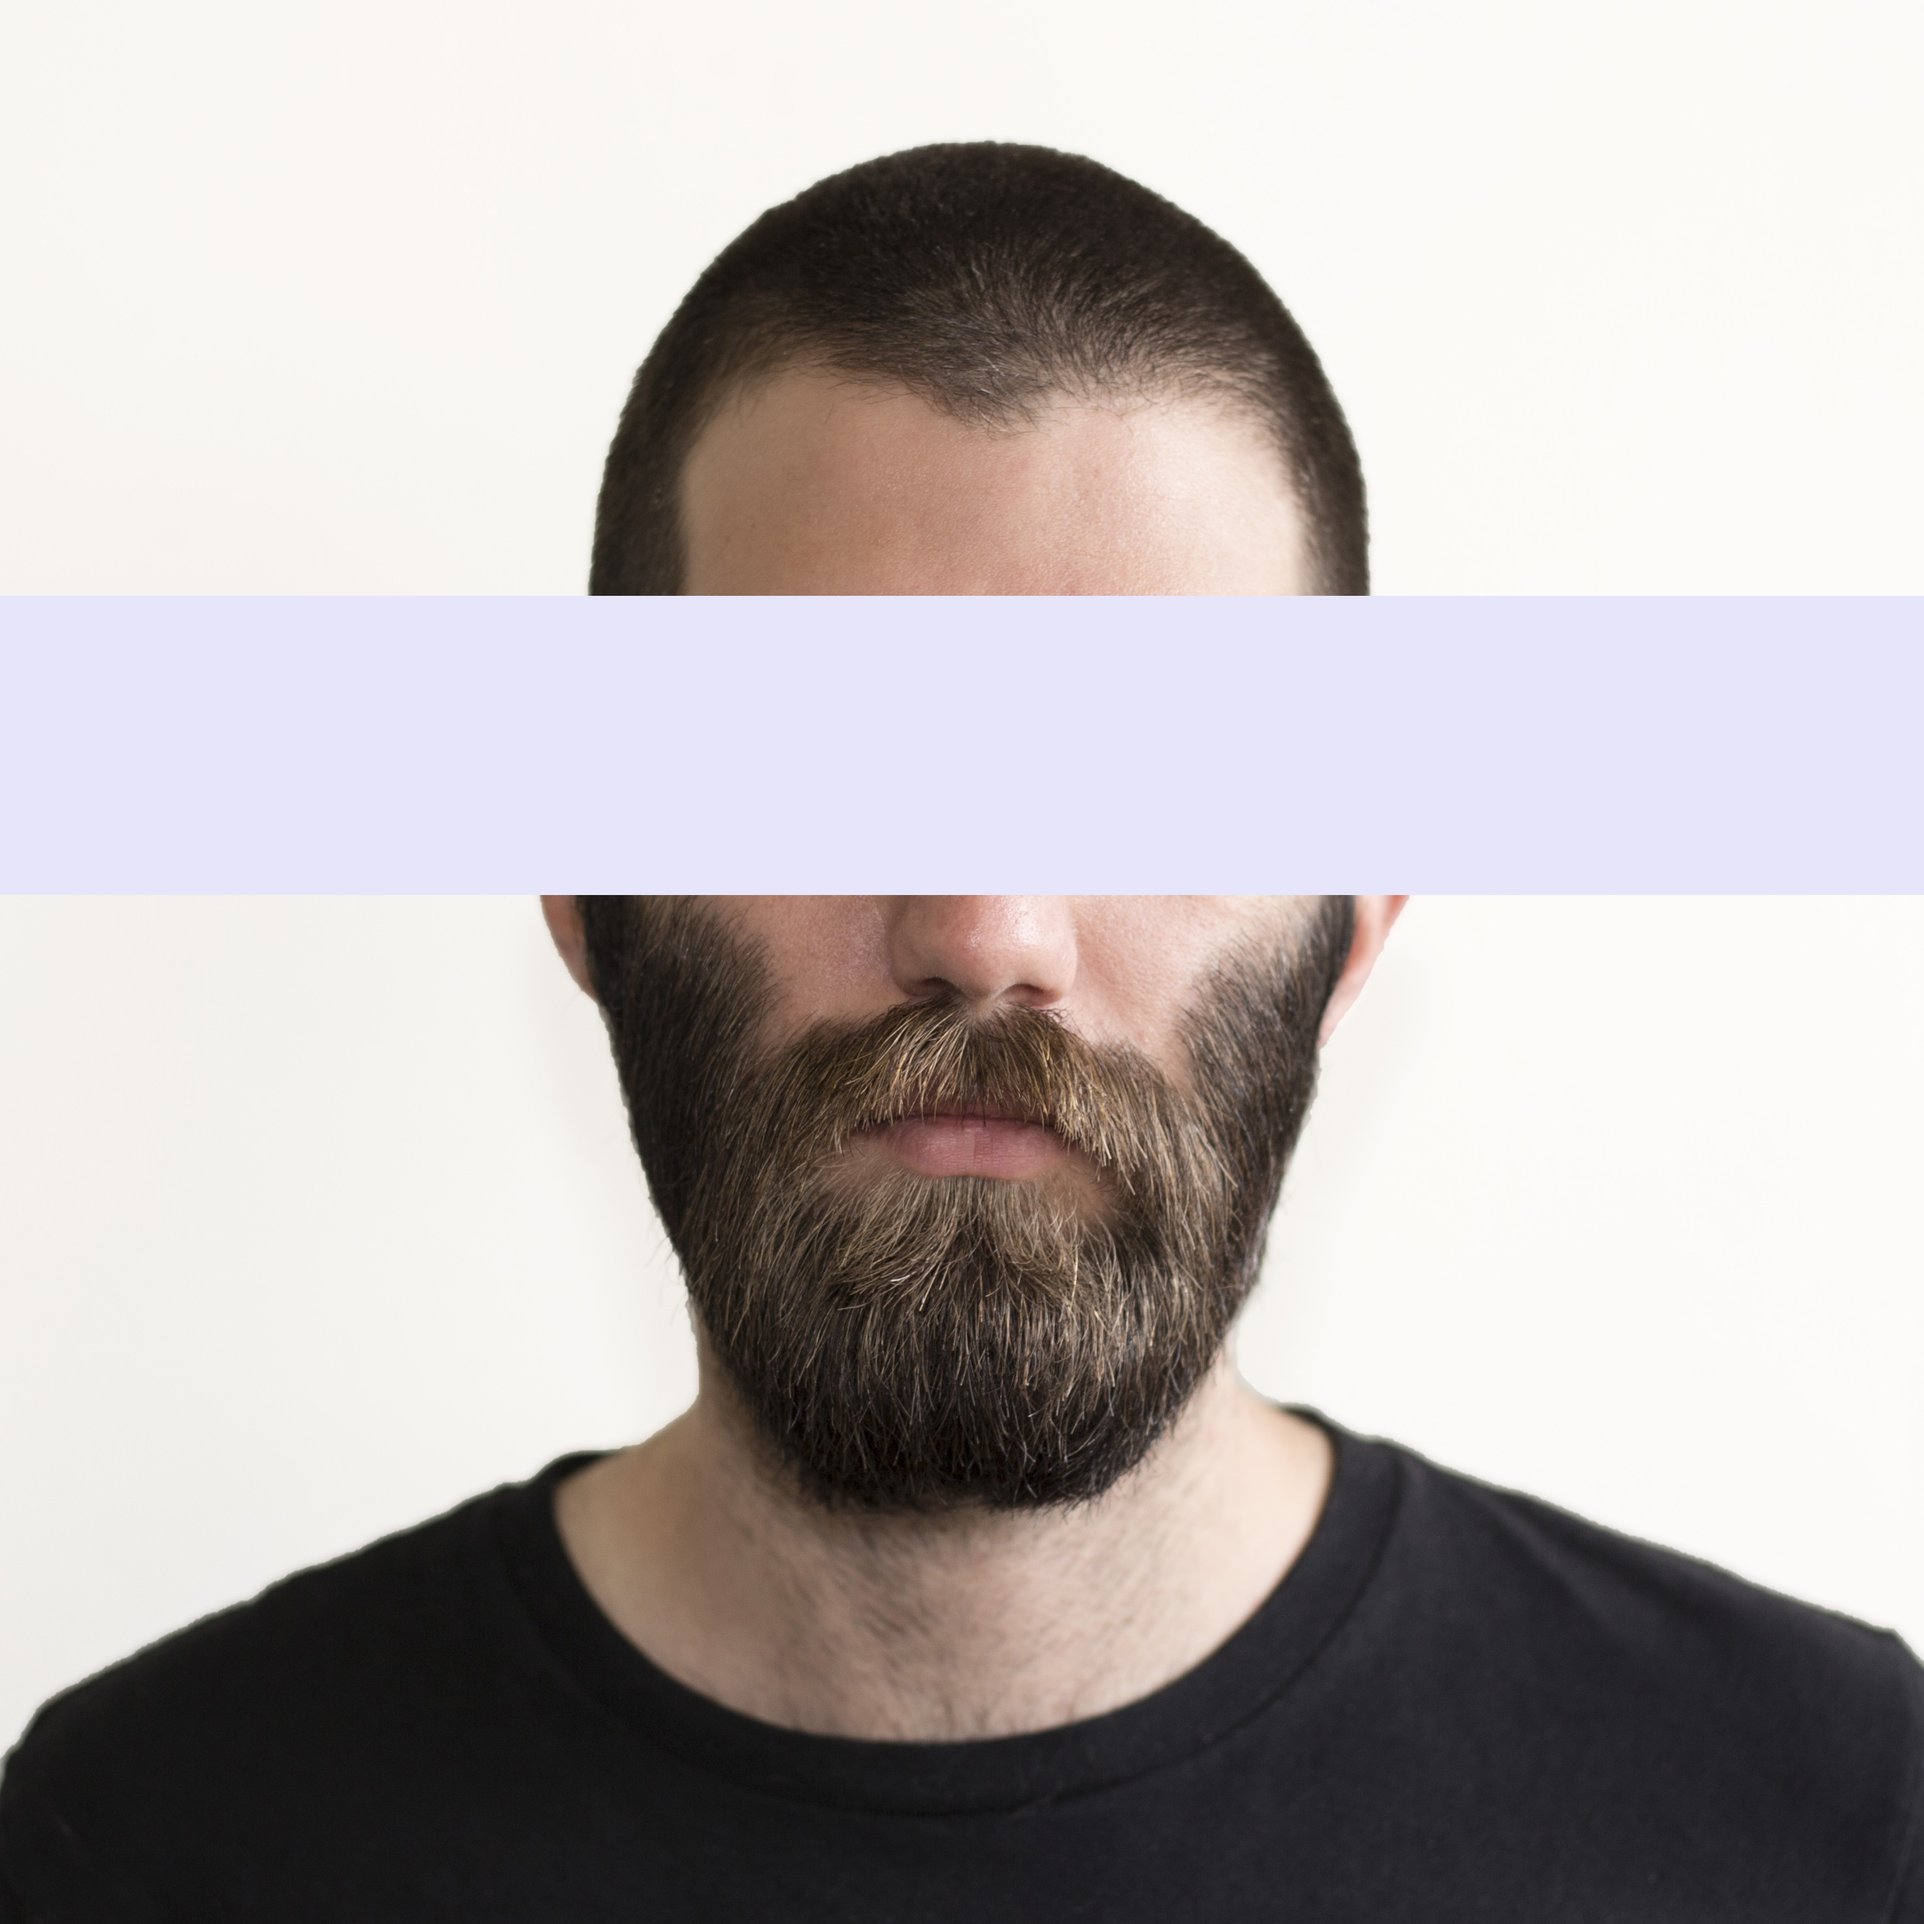
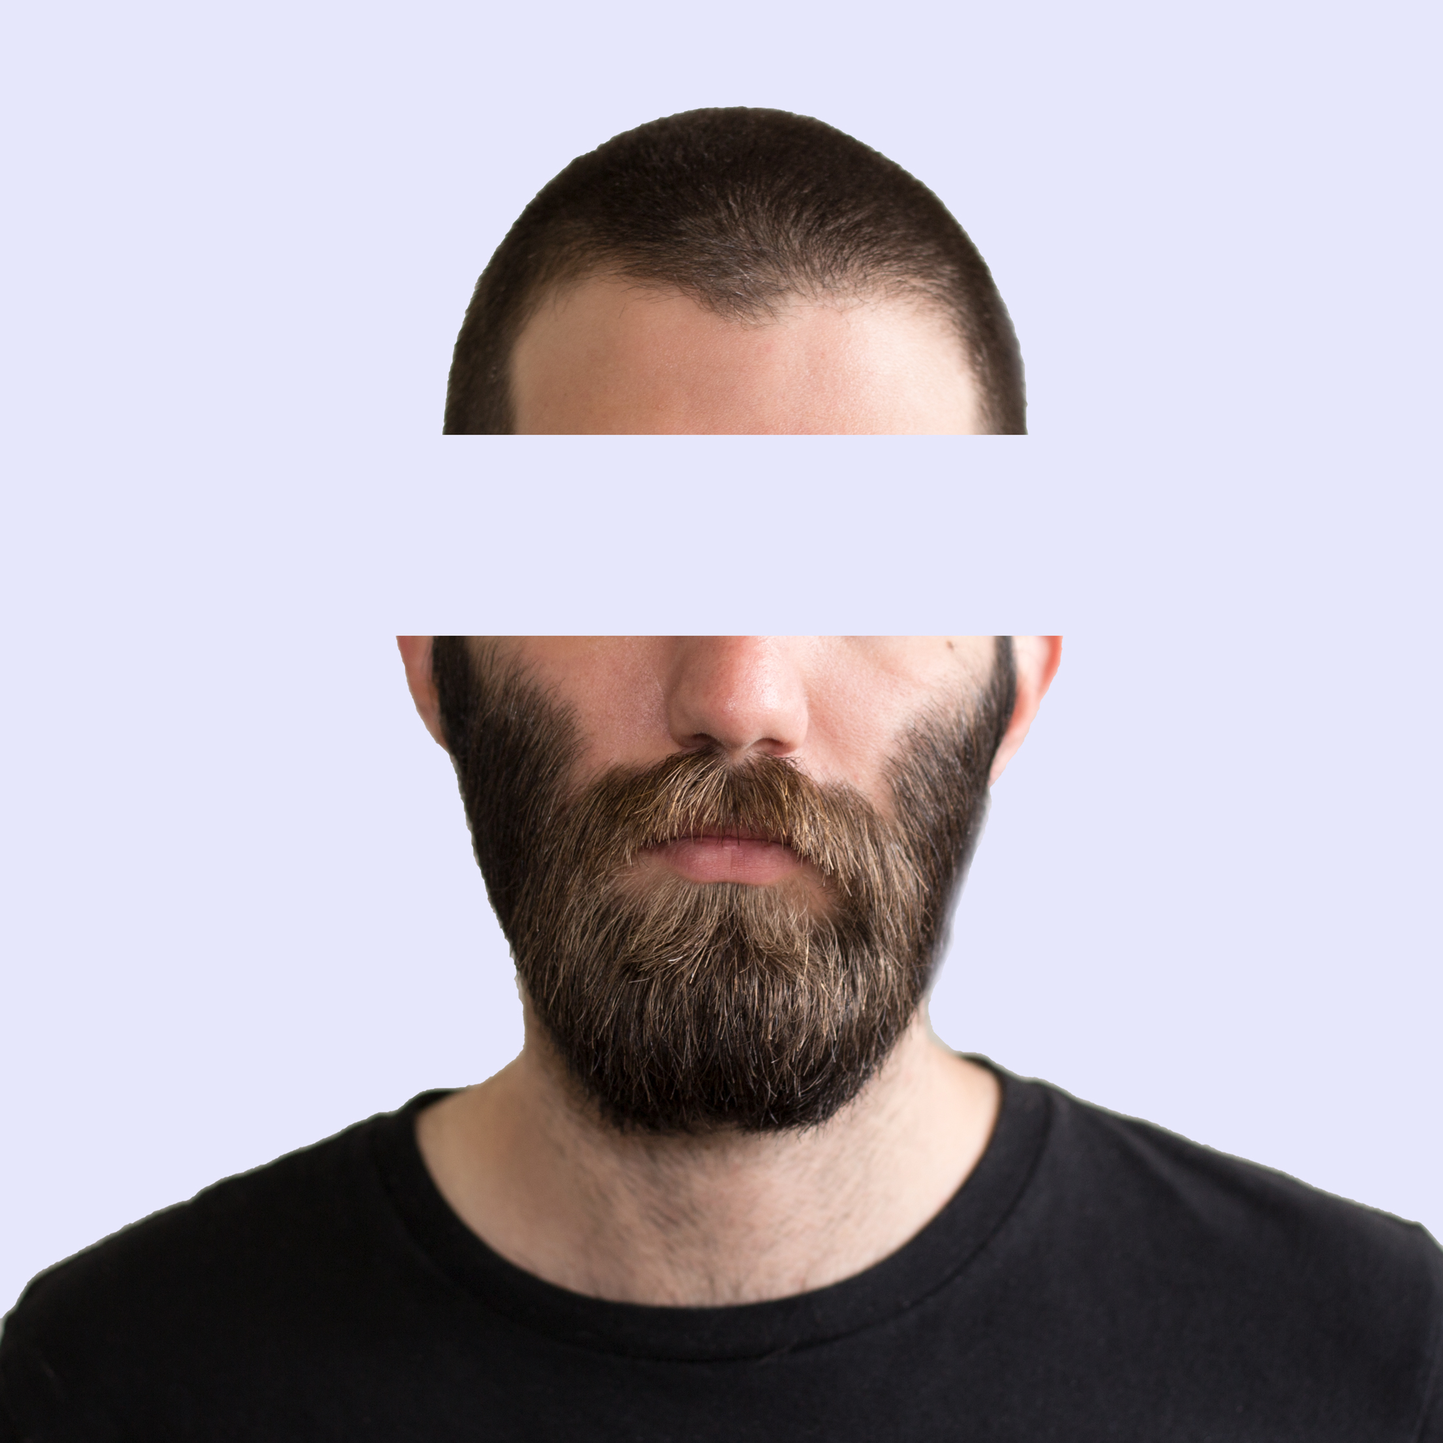
adds new portrait and education info in bio page

diff --git a/bio.html b/bio.html
@@ -17,16 +17,41 @@
                 <div class="col-xs-12 col-sm-12 col-md-12 col-lg-12">
                     <div class="header">CRAIG DUPUIS</div>
                     <h2>BIO</h2>
-                    <img id="portrait" src="assets/images/portrait.jpg"  alt="Craig Dupuis">
+                    <img id="portrait" src="assets/images/portrait.jpg" alt="Craig Dupuis">
+
+                    <h2>EDUCATION</h2>
+
+                    <h4>NORTHWESTERN UNIVERSITY</h4>
+                    <h6>POST-BACCALAUREATE CERTIFICATE</h6>
+                    <h6>FULL-STACK DEVELOPMENT BOOTCAMP</h6>
+                    <h6>2018</h6>
+                    <br>
+                    <h4>SCHOOL OF THE ART INSTUTUTE OF CHICAGO</h4>
+                    <h6>BACHELOR OF FINE ARTS</h6>
+                    <h6>PHOTOGRAPHY</h6>
+                    <h6>2016</h6>
+                    <br>
+                    <h4>UNIVERSITY OF LOUISIANA AT LAFAYETTE</h4>
+                    <h6>BACHELOR OF GENERAL STUDIES</h6>
+                    <h6>APPLIED SCIENCES</h6>
+                    <h6>2011</h6>
+
+
+
+
+
                 </div>
             </div>
 
-            
+
 
             <div class="row">
                 <div class="col-xs-12 col-sm-12 col-md-12 col-lg-12">
                     <div class="footer">
-                            <a href="index.html">PORTFOLIO</a>
+                        <a href="http://craigdupuis.com/">ART</a>
+                        <br>
+                        <a href="index.html">WEB DEV PORTFOLIO</a>
+                        <br>
                         <p>DUPUISCRAIG@GMAIL.COM</p>
                     </div>
                 </div>

diff --git a/assets/Styling/style.css b/assets/Styling/style.css
@@ -5,6 +5,7 @@ body{
     font-family: Arial, Helvetica, sans-serif;
     font-weight: bold;
     text-align: center;
+    /* background: linear-gradient(lavender, purple); */
 }
 
 .wrapper{
@@ -16,13 +17,11 @@ body{
 }
 
 .header{
-    /* padding: 40px; */
     padding-top: 40px;
     font-size: 100px;
 }
 
 h2{
-    /* padding: 40px; */
     padding-bottom: 40px;
     font-size: 50px;
     font-weight: bold;
@@ -38,6 +37,11 @@ h5{
     font-weight: bold;
 }
 
+h6{
+    font-size: 15px;
+    font-weight: bold;
+}
+
 .footer{
     padding: 30px;
     font-size: 50px;
@@ -48,10 +52,11 @@ img{
     border-style: solid;
     border-width: 20px;
     border-color: black;
+    margin: 20px;
 }
 
 #portrait{
-    width: 25%;
+    width: 400px;
 }
 
 a {
